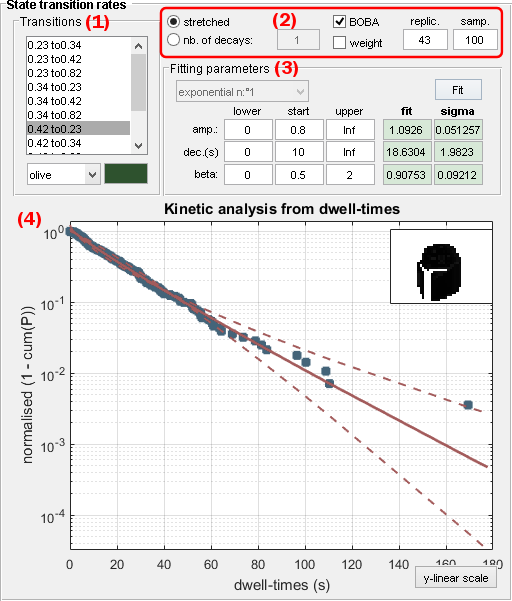
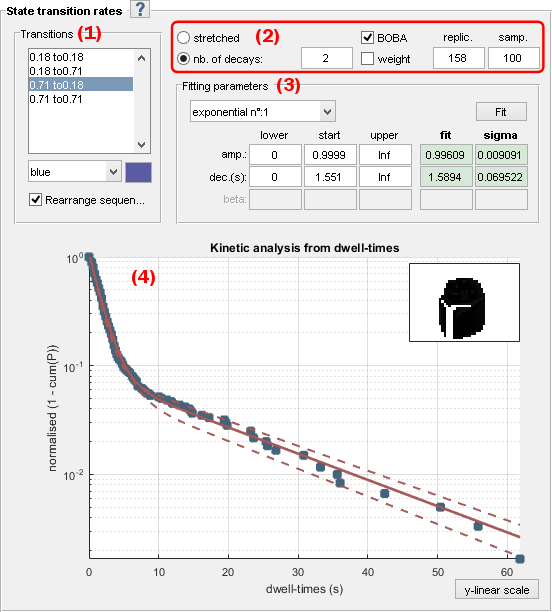
add option "re-arrange sequences" in TA

diff --git a/docs/transition-analysis/panels/panel-state-transition-rates.md b/docs/transition-analysis/panels/panel-state-transition-rates.md
@@ -15,7 +15,7 @@ State transition rates is the third panel of module Transition analysis.
 
 Use this panel to estimate state transition rates and associated cross-sample variability.
 
-<a class="plain" href="../../assets/images/gui/TA-panel-state-transition-rates.png"><img src="../../assets/images/gui/TA-panel-state-transition-rates.png" style="max-width:512px;"></a>
+<a class="plain" href="../../assets/images/gui/TA-panel-state-transition-rates.png"><img src="../../assets/images/gui/TA-panel-state-transition-rates.png" style="max-width:552px;"></a>
 
 ## Panel components
 {: .no_toc .text-delta }
@@ -28,16 +28,21 @@ Use this panel to estimate state transition rates and associated cross-sample va
 
 ## Transitions
 
-Use this panel to select a transition clusters for dwell time analysis and edit the associated color.
+Use this panel to select a transition clusters and pre-process the associated dwell-time set.
 
 <img src="../../assets/images/gui/TA-panel-state-transition-rates-transitions.png" style="max-width:148px;">
 
-Transition clusters are listed in **(a)** and entitled as `[1] to [2]` with `[1]` and `[2]` the states before and after transition respectively, determined from the cluster center.
+Transition clusters are listed in **(a)** and entitled as `[j] to [j']` with `[j]` and `[j']` the states before and after transition respectively, determined from the cluster center.
 
 The color representing the selected cluster in the 
 [TDP plot](panel-state-configuration.html#clusters) is shown in **(c)** and can be modified by choosing a new color in list **(b)**.
 
-Selection of a new cluster in list **(a)** will update the 
+In order to obtain dwell time histograms in line with clustered data, state sequences can be re-processed according to clustering results.
+In this case, state transitions that are not included in any cluster, or that are included in diagonal clusters, are ignored and the dwell time prior transition is elongated.
+
+To re-arrange state sequences according to clustering results, activate the option **(d)**.
+
+Selection of a new cluster in list **(a)** or changes in option **(d)** will update the 
 [Visualization area](#visualization-area) with the corresponding dwell time histogram and fitting results if any.
 
 
